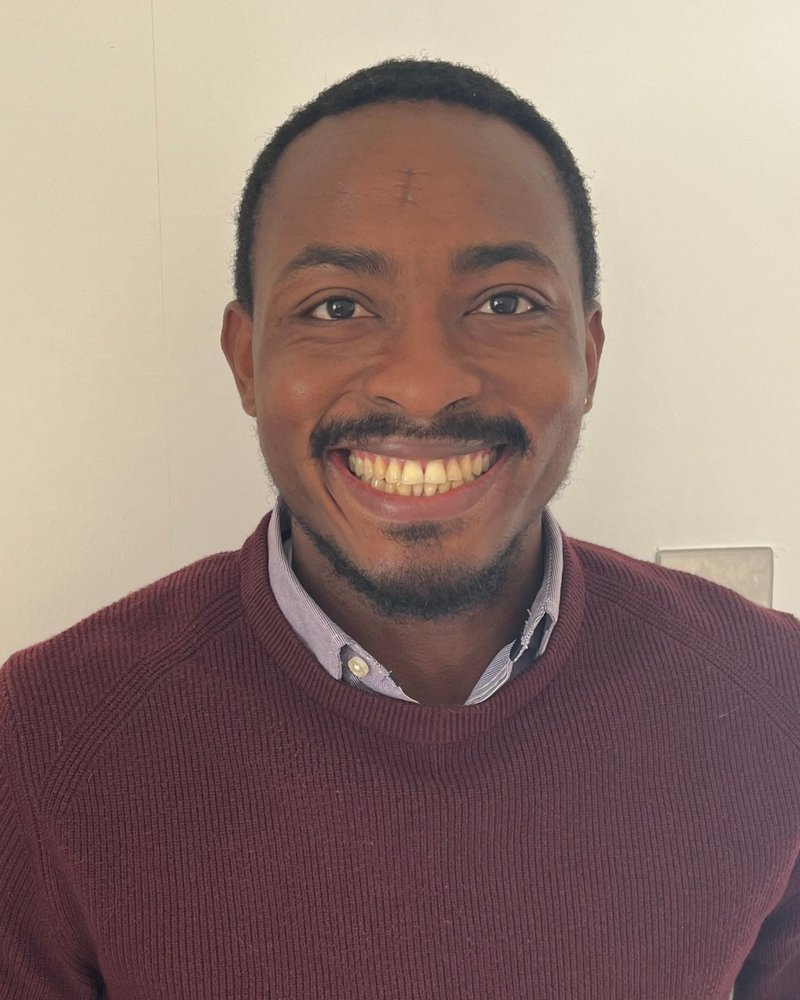
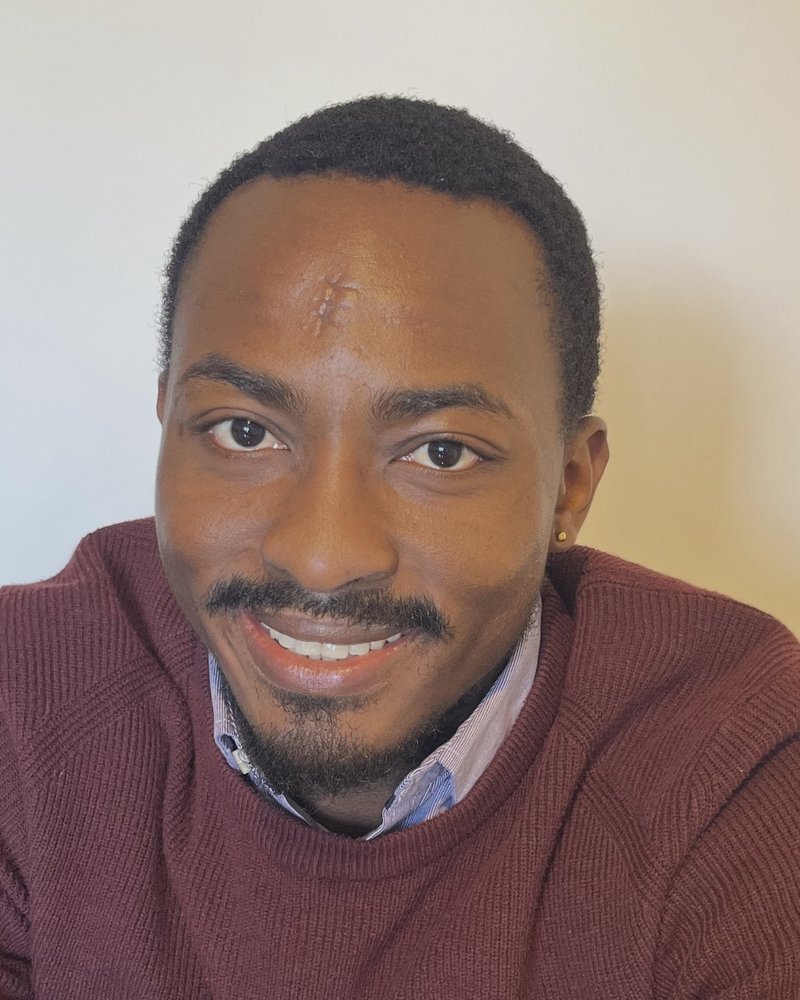
Update profile photo and Outside work section

diff --git a/src/app/about/page.tsx b/src/app/about/page.tsx
@@ -201,11 +201,13 @@ export default function About() {
           Outside work
         </h2>
         <p className="mt-4 text-lg max-w-3xl leading-relaxed">
-          I’m a member of Rotary International (Morpeth Club). Away from the
-          screen, I love walking with my dogs, by the beach or closer to home,
-          being out in nature, spending time with my family, and playing
-          football and video games. I’ve also built websites as a volunteer,
-          including CareProNest, which helps families find carers.
+          I’m a member of Rotary International (Morpeth Club). Outside work, I
+          love history and politics, and I spend a lot of my free time visiting
+          historic places across Northumberland: the castles at Bamburgh and
+          Warkworth, Lindisfarne on Holy Island, and the harbour at Amble.
+          Closer to home, you’ll find me walking my dogs on the beach at Cambois
+          or Newbiggin-by-the-Sea, or along the River Wansbeck. I also enjoy
+          time with my family, playing football
         </p>
       </section>
     </>

diff --git a/src/app/page.tsx b/src/app/page.tsx
@@ -67,9 +67,9 @@ export default function Home() {
         "An accessible map of North East towns. The map and the place list stay in sync, the list gives keyboard and screen-reader users an equal alternative, and the search is covered by unit tests.",
       image: "/images/north-east-places.png",
       alt: "North East Places: a street map zoomed in on Hartlepool with its popup open, beside a search box showing 10 places found and Hartlepool highlighted in the list.",
-      caseStudy: "/projects##north-east-places",
+      caseStudy: "/projects#north-east-places",
       GitHub: "https://github.com/ifeanyiukiwe/north-east-places",
-      liveSite: "https://north-east-places.vercel.ap",
+      liveSite: "https://north-east-places.vercel.app",
     },
     {
       title: "Padfect Store",
